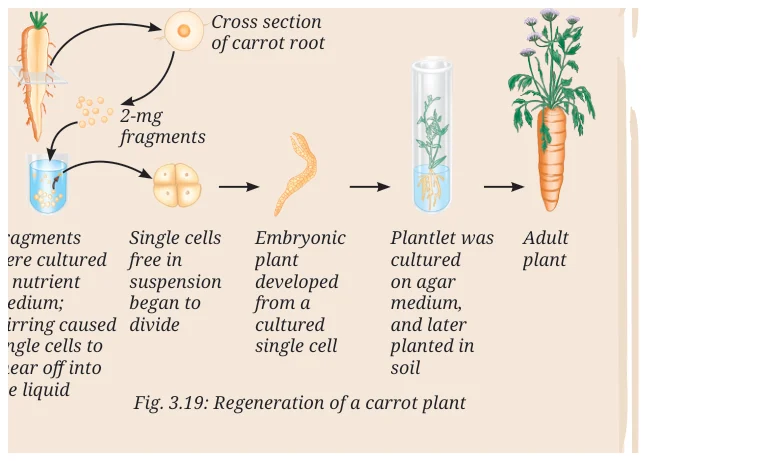
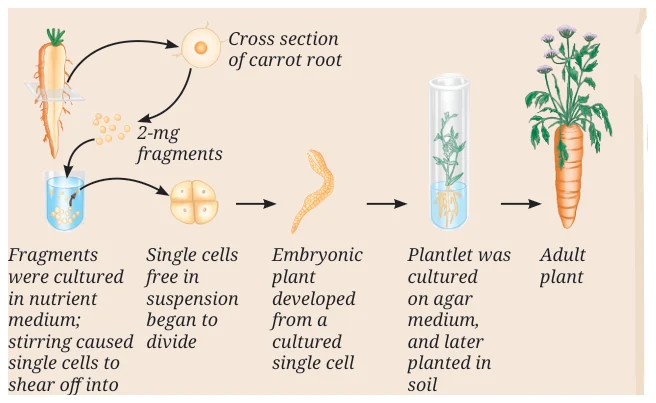
Fix cropped figures and enrich notes in Tissues in Action
Re-cropped all 24 real figures: removed the baked-in "Fig. X.X" captions
from every image and fixed several that had their top or bottom cut off
(bone-types collar bone inset, crown gall photo left edge, musculoskeletal
system feet, cardiac muscle label, tissue systems root cross-section, and
more). Sub-part labels like (a)/(b)/(c) and "Jar A"/"Jar B" are kept since
those aren't NCERT figure numbers.

Also corrected and enriched the notes against the teacher's own reference
notes: added guard cells, chlorenchyma/aerenchyma, cork/suberin, tracheid
vs vessel, sieve cells vs sieve tubes, vascular cambium, epithelial tissue
named by cell shape (squamous/cuboidal/columnar/ciliated/glandular),
areolar and adipose connective tissue, actin/myosin and muscle body-weight
share, and synapse/nerve impulse.

diff --git a/src/components/LearnTissues9.tsx b/src/components/LearnTissues9.tsx
@@ -153,8 +153,9 @@ const TOPICS: Topic[] = [
         <>The {b("epidermis")} forms the outermost layer of the plant, a tightly packed single layer of flat, rectangular cells. It protects the plant from injury, water loss, germs and harsh weather.</>,
         <>A waxy layer called {b("cuticle")} covers the epidermis. Plants in very dry places may have a thicker cuticle, to cut down water loss.</>,
         <>In roots, epidermal cells grow hair-like {b("root hairs")} that increase the surface area for taking up water and minerals.</>,
-        <>In leaves, the epidermis has pores called {b("stomata")}. These let gases in and out, and let water vapour escape (transpiration).</>,
+        <>In leaves, the epidermis has pores called {b("stomata")}. Each stoma is enclosed by two {b("guard cells")}, which open and close the pore. Stomata let gases in and out, and let water vapour escape (transpiration).</>,
         <>Transpiration also helps pull water up through the xylem and helps remove waste from the plant.</>,
+        <>As a stem grows old, some cells below the epidermis turn into a lateral meristem called the {b("cork cambium")}. It keeps producing {b("cork")}: dead, tightly packed cells with a waterproof substance called {b("suberin")} in their walls. Cork forms the {b("bark")} of an old tree and stops water and gases from passing through.</>,
       ] },
       { t: "h", text: "Simple Permanent Tissues (Supporting Tissues)" },
       { t: "img", pic: { file: "permanent-tissues", alt: "Microscope views of parenchyma with thin walls, collenchyma with thick corners, and sclerenchyma with thick lignified walls", caption: "(a) Parenchyma (b) Collenchyma (c) Sclerenchyma" } },
@@ -162,6 +163,10 @@ const TOPICS: Topic[] = [
         ["Parenchyma", "Living cells, thin walls, loosely packed with gaps between them. Stores food, does photosynthesis in green parts. In water plants, forms air spaces that help the plant float"],
         ["Collenchyma", "Living cells, unevenly thickened corners (from a flexible chemical called pectin). Gives support and flexibility, so stems and tendrils bend without breaking"],
         ["Sclerenchyma", "Mostly dead cells with thick, hard walls (from a chemical called lignin). Gives strength and forms the woody, hard parts: stems, leaf veins, coconut husk, walnut shell"],
+      ] },
+      { t: "facts", rows: [
+        ["Chlorenchyma", "Parenchyma cells with chlorophyll in them, so they can do photosynthesis. Gives the green colour to a stem or an aerial root"],
+        ["Aerenchyma", "Parenchyma with big air spaces inside it. Found in water plants (like rice roots) and helps the plant float and store air"],
       ] },
       { t: "remember", title: "Why some fibres are hard and some are soft", body: <>Coconut husk fibre is hard and brittle because it is made of {b("sclerenchyma")} (dead, thick-walled cells). A coriander leaf stalk is soft and flexible because it is made mostly of living {b("parenchyma")} and {b("collenchyma")} cells with thin or only slightly thickened walls.</> },
     ],
@@ -248,6 +253,17 @@ const TOPICS: Topic[] = [
         ["Absorption (e)", "Single layer of tall, pillar-like cells, often with hair-like structures. Lines the small intestine, for taking up nutrients and water"],
       ] },
       { t: "remember", title: "Why so thin?", body: <>A lining that is only one or a few cells thick lets substances move across it quickly. This quick exchange is exactly what gas exchange in the lungs, or absorption in the intestine, needs.</> },
+      { t: "h", text: "Naming Epithelium by Cell Shape" },
+      { t: "ul", items: [
+        <>Epithelial tissue is also named by the {b("shape")} of its cells and by whether it has one layer or many.</>,
+      ] },
+      { t: "facts", rows: [
+        ["Squamous epithelium", "Flat, thin cells. A single layer (simple squamous) lines blood vessels and air sacs of the lungs; many layers (stratified squamous) protect the skin, mouth and food pipe"],
+        ["Cuboidal epithelium", "Cube-shaped cells with a round central nucleus. Lines kidney tubules and the ducts of salivary and sweat glands, for secretion and absorption"],
+        ["Columnar epithelium", "Tall, pillar-like cells. Lines the stomach and intestine, for secretion and absorption"],
+        ["Ciliated epithelium", "Columnar or cuboidal cells with hair-like cilia on top. Lines the windpipe (trachea) and bronchi, where the cilia sweep dust-trapping mucus up and out"],
+        ["Glandular epithelium", "Cells folded inward to form a gland. Makes and releases substances like sweat, tears and digestive juices"],
+      ] },
     ],
   },
   {
@@ -279,6 +295,11 @@ const TOPICS: Topic[] = [
         ["Tendon", "Connects muscle to bone. Brings about movement"],
         ["Ligament", "Connects bone to bone. Gives stability, limits movement and helps prevent dislocation"],
       ] },
+      { t: "h", text: "Two More Connective Tissues" },
+      { t: "facts", rows: [
+        ["Areolar tissue", "A loosely packed connective tissue with fibres running through a gel-like matrix. Fills the space between skin and muscles, and around blood vessels and nerves. It cushions and supports organs and helps repair tissues"],
+        ["Adipose tissue", "Made of fat cells that store fat. Found below the skin and around organs. Stores energy, insulates the body against cold and heat, and cushions organs like the kidneys"],
+      ] },
     ],
   },
   {
@@ -295,6 +316,7 @@ const TOPICS: Topic[] = [
         ["Smooth muscle", "Spindle-shaped cells, one nucleus, no stripes. Found in the stomach and intestine. Involuntary, gives slow, continuous movement like digestion"],
         ["Cardiac muscle", "Cylindrical, branched fibres, one nucleus, faint stripes. Found only in the heart. Involuntary, works tirelessly and rhythmically without ever getting tired"],
       ] },
+      { t: "remember", title: "What makes a muscle contract?", body: <>Muscle cells (also called muscle fibres) have two proteins, {b("actin")} and {b("myosin")}, arranged along their length. These proteins slide over each other to make the muscle contract and relax. Skeletal muscle alone makes up roughly {b("30 to 40 percent")} of an adult's body weight. Like cardiac muscle, smooth muscle also does not get tired.</> },
     ],
   },
   {
@@ -315,6 +337,7 @@ const TOPICS: Topic[] = [
         ["Dendrites", "Receive signals from other neurons"],
         ["Axon", "A long fibre that carries the message away from the cell, ending at axon terminals which pass it on"],
       ] },
+      { t: "remember", title: "Passing the message on", body: <>A message moving along a neuron is called a {b("nerve impulse")}. The tiny gap between one neuron's axon terminals and the next neuron is called a {b("synapse")}. Many neurons joined together form a nerve fibre, and many nerve fibres together form a nerve.</> },
     ],
   },
   {
@@ -408,11 +431,12 @@ const TOPICS: Topic[] = [
     blocks: [
       { t: "card", title: "More on Meristem and Growth", body: [
         <>{b("Stem cells")} in bone marrow can divide and make new blood cells throughout life. In a bone marrow transplant, stem cells from a healthy donor are given to patients with blood disorders such as leukaemia or thalassaemia.</>,
-        <>In young stems, the outer layer is a single-layered epidermis. As the plant ages, some cells below the epidermis become a lateral meristem called the {b("cork cambium")}. It produces dead, tightly packed cork cells that are impermeable to water and gases, forming the {b("bark")} of a tree.</>,
+        <>The lateral meristem that makes xylem and phloem is also called the {b("vascular cambium")}. Not every plant relies on it: a palm tree has almost no lateral meristem activity, which is why its trunk does not keep growing thicker like a mango or teak tree does.</>,
       ] },
       { t: "card", title: "More on Xylem, Phloem and Movement", body: [
         <>Water moves up dead xylem cells mainly through {b("transpiration pull")}: water vapour escaping from leaf stomata creates a suction that pulls the whole water column upward, like sipping through a straw.</>,
-        <>Phloem transport needs {b("living cells")} and energy, since companion cells actively load and unload sugars into the sieve tubes.</>,
+        <>Of the four xylem cell types, only {b("tracheids")} and {b("vessels")} carry water. Tracheids are single, tapering cells with walls that are not perforated. Vessels are wider tubes made of many "vessel members" joined end to end, with perforated end walls, so they carry water more easily.</>,
+        <>Phloem transport needs {b("living cells")} and energy, since companion cells actively load and unload sugars into the sieve tubes. Sieve tubes have small holes called {b("sieve plates")} between cells; some plants also have simpler {b("sieve cells")}, an older kind of phloem cell with no sieve plates. A sieve tube cell and its companion cell come from the same parent cell, so they are often called sister cells.</>,
       ] },
       { t: "card", title: "More on Animal Tissue", body: [
         <>Cartilage exists in a few forms: the flexible kind cushioning joints, and tougher, more fibrous kinds elsewhere in the body (such as between spinal discs).</>,
@@ -426,6 +450,7 @@ const TOPICS: Topic[] = [
         ["Bone remodelling", "Bone tissue keeps being broken down and rebuilt throughout life, helped by minerals like calcium and phosphorus"],
         ["Companion cells", "Named because they sit right beside the sieve tube cells they support and control"],
         ["Cork vs cork cambium", "Cork is the dead protective layer; cork cambium is the living meristem that keeps producing it"],
+        ["Lymph", "A pale fluid connective tissue that leaks out of blood vessels, flows through the lymphatic system, and carries white blood cells that fight infection"],
       ] },
       { t: "remember", title: "Exam traps", body: <>(1) Meristematic tissue divides; permanent tissue does not. (2) Xylem cells that transport water are mostly dead; phloem cells that transport food are mostly alive. (3) Cartilage cushions and cushions joints; it is not the same as bone. (4) A tendon joins muscle to bone; a ligament joins bone to bone. (5) Voluntary movement uses skeletal muscle; involuntary movement uses smooth or cardiac muscle.</> },
     ],
